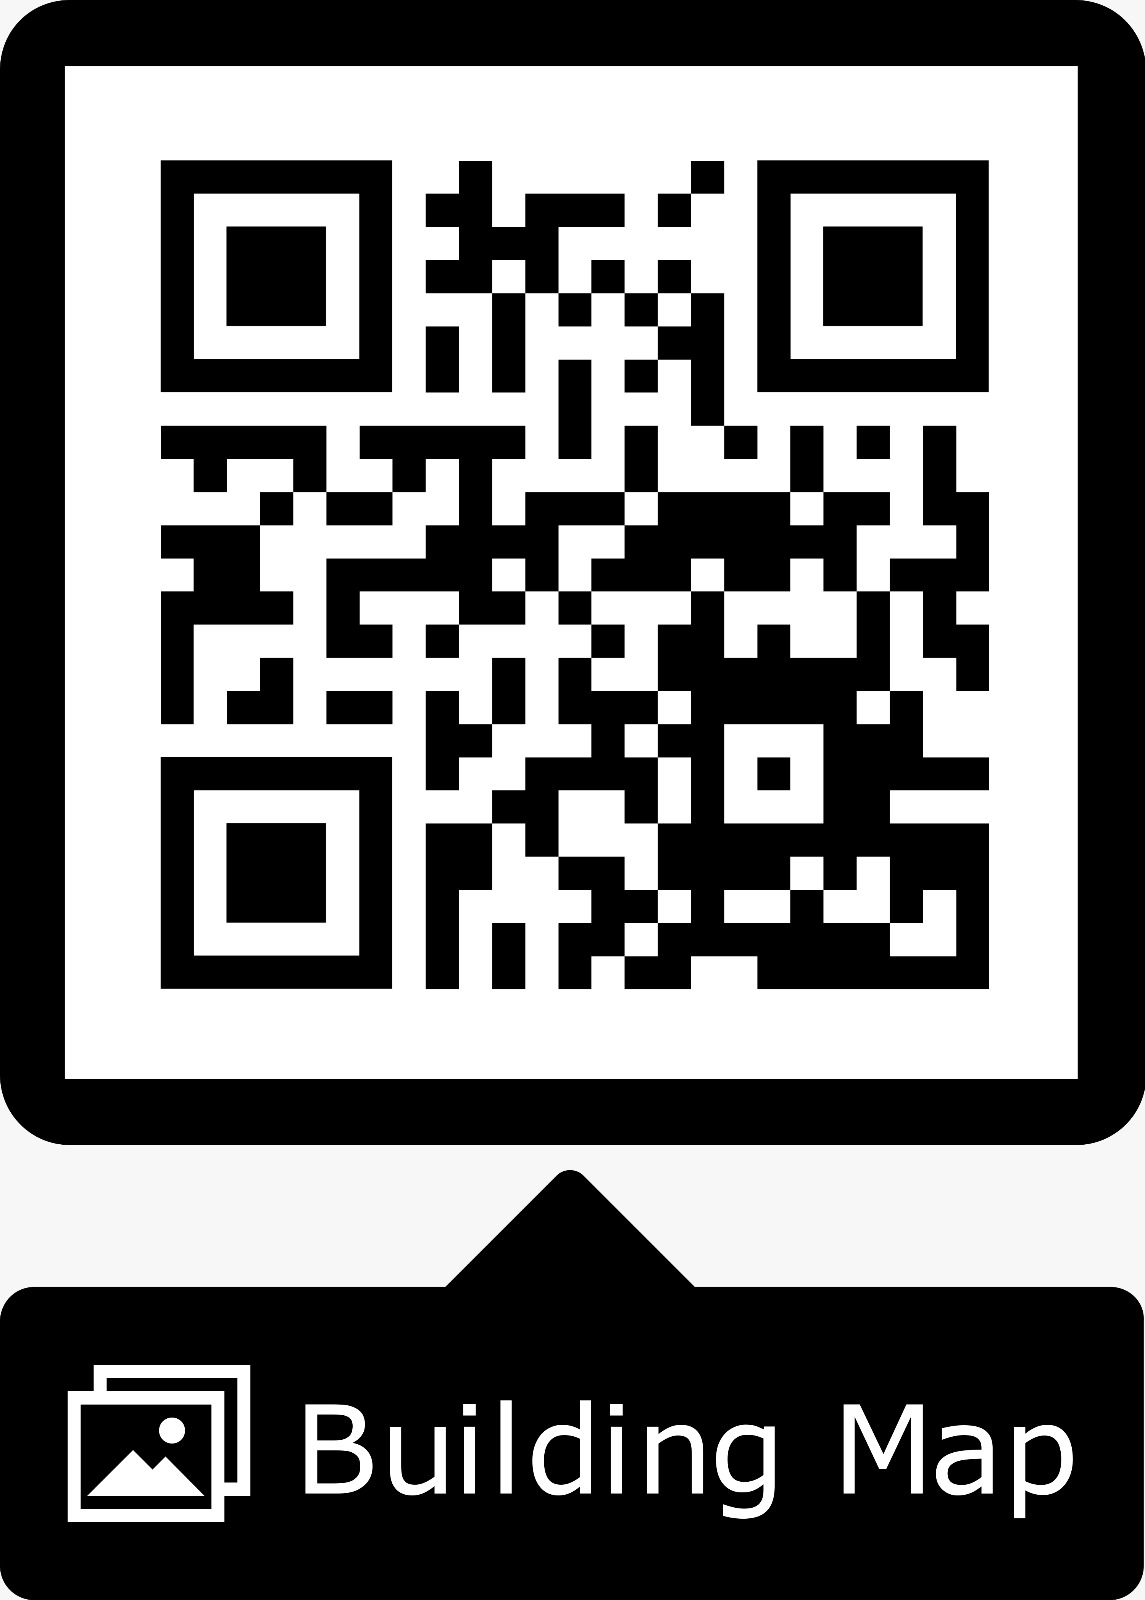
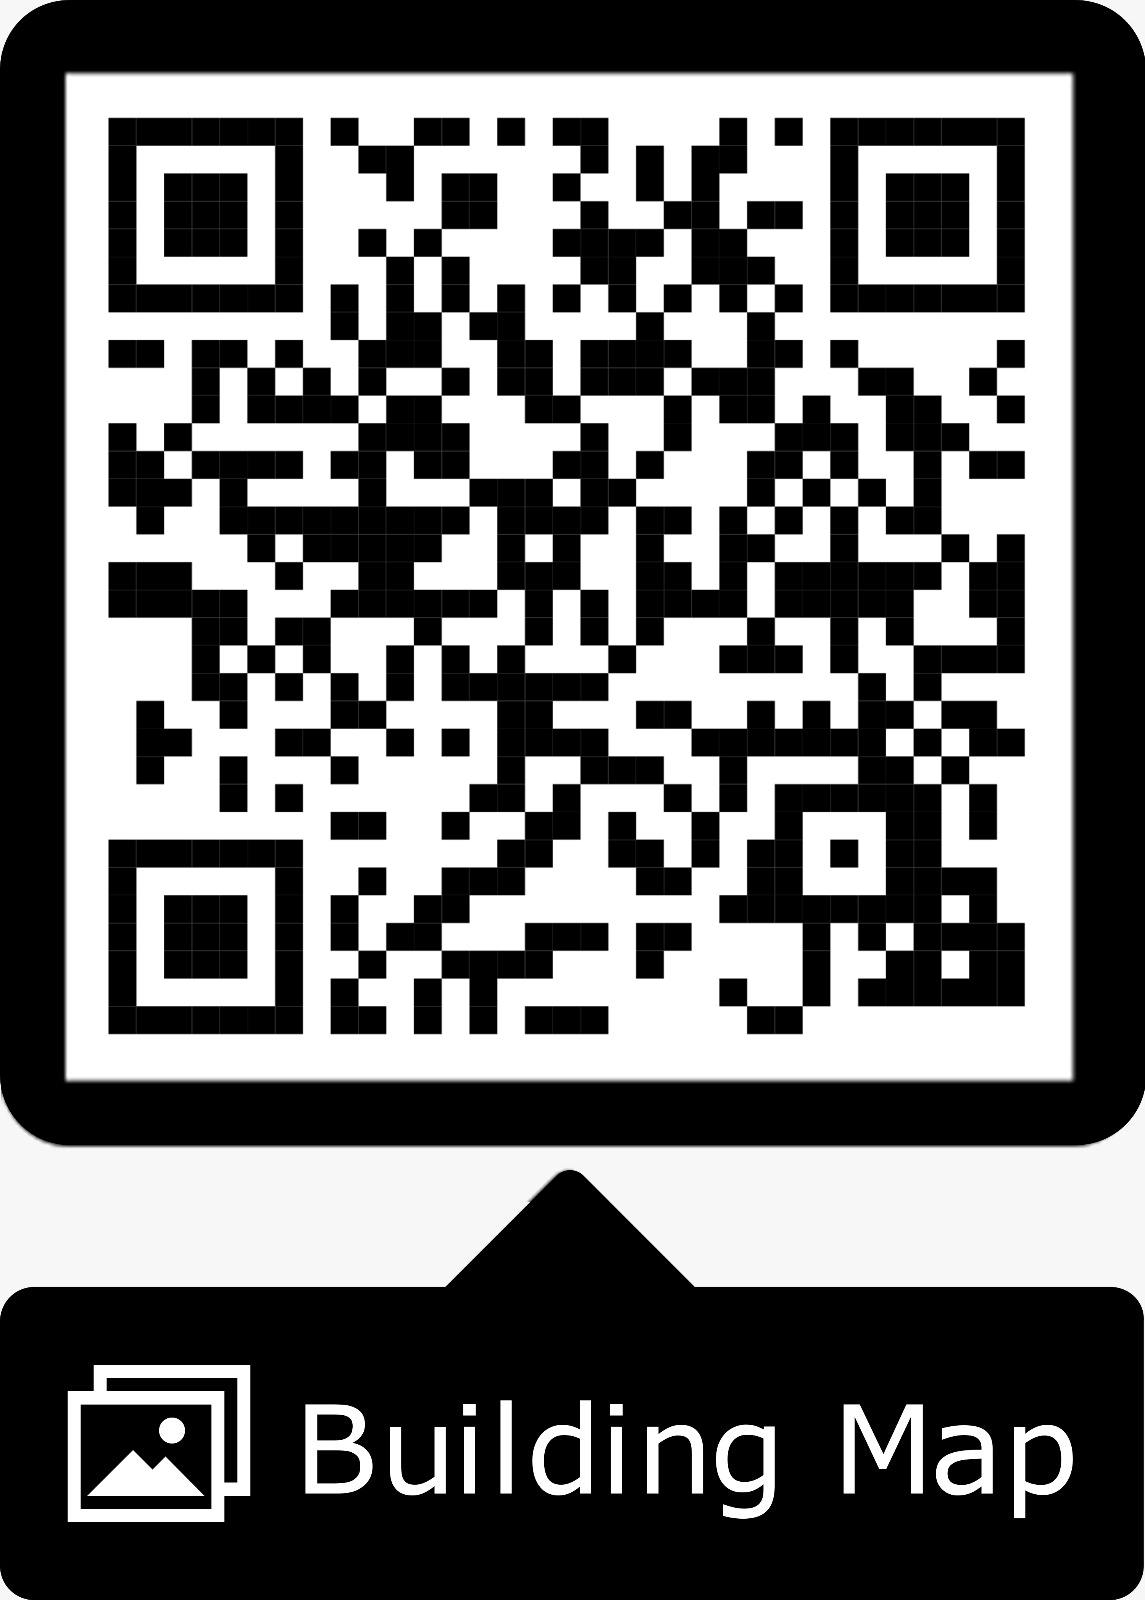
Maps, time/weather on maps page
Maps, time/weather on maps page, qr code

Changed region(s): [[0.0611, 0.0312, 0.9476, 0.6875]]

diff --git a/Contents/Maps/index.html b/Contents/Maps/index.html
@@ -59,6 +59,11 @@
   </header>
 
   <nav>
+    <div class="dateTime">
+      <span id="content_date"></span>
+      <span id="content_air"></span> | <span id="temp"></span>
+      <img src="" id="image-zoom">
+    </div>
     <div class="home-text" onclick="FC_ContentsCall('Home')"><img class="home" src="../../assets/icons/home.png" alt="home" >Home</div>
     <!--<h2 class="lang-text">Choose a Language</h2>
     <div class="nav-language">
@@ -78,11 +83,11 @@
           </li>    
         </ul>
         <div class="tab-content">
-          <div class="qr-code"><img src="images/qr-code.png" width="100"><span>Use your cell phone camera to scan the QR code to receive the map on your phone.</span></div>
+          <div class="qr-code"><img src="images/qr-code.png" width="100"><span>Use your Smart Phones camera to scan the QR code to receive the map on your phone.</span></div>
           <div class="tab-pane active" style="text-align: center" id="i01">
             <!--<img id="img" src="images/upper-level-map.png" onmousedown ="return false" width="1015">-->
             <!-- Image Map Generated by http://www.image-map.net/ -->
-            <img src="images/O-Upper Floor.png" width="1015" usemap="#image-map2">
+            <img src="images/O-Upper-new.png" width="1015" usemap="#image-map2">
             <map name="image-map2">
               <area id="1" src="images/O-Sheriff.png" alt="sherif" title="sherif" href="#" coords="239,964,274,965,275,971,288,963,298,975,277,996,278,1042,264,1041,263,1033,254,1027,240,1025" shape="poly">
               <area src="images/O-Board-Room.png" target="" alt="Board Room" title="Board Room" href="#" coords="192,894,204,893,210,888,295,887,306,899,306,910,299,908,298,927,300,933,306,936,304,945,290,960,278,964,228,964,228,957,192,957" shape="poly">
@@ -108,10 +113,72 @@
               <area src="images/O-First-Map-Seven-through-Eleven.png" alt="Elevator to Lower Level" title="Elevator to Lower Level" href="#" coords="307,968,320,967,322,979,307,980" shape="poly">
               <area src="images/O-First-Map-One-through-Six.png" alt="Elevator to Lower Level" title="Elevator to Lower Level" href="#" coords="414,543,429,541,429,560,414,560" shape="poly">
             </map>
+            <div style="position: absolute;top: 569px;left: 722px;font-size: 22px;">
+              <div class="menu-item-2" style="" >
+                <img src="images/star.png" width="30"> Upper Level Main Entrance
+              </div>
+              <div class="menu-item" style="" src="images/O-First-Map-Seven-through-Eleven.png" title="Elevator to Lower Level">
+                <img src="images/blue-circle.png" width="30"> Elevator
+              </div>
+              <div class="menu-item" src="images/O-Sheriff.png" title="sherif">
+                1 Sheriff
+              </div>
+              <div class="menu-item" src="images/O-Board-Room.png" title="Board Room">
+                2 Board Room
+              </div>
+              <div class="menu-item" src="images/County-Administrator.png" title="County Administrator">
+                3 County Administrator
+              </div>
+              <div class="menu-item" src="images/O-Conference-Room-A.png" title="Conference Room A">
+                4 Conference Room A
+              </div>
+              <div class="menu-item" src="images/O-Conference-Room-B.png" title="Conference Room B">
+                5 Conference Room B
+              </div>
+              <div class="menu-item" src="images/O-Conference-Room-C.png" title="Conference Room C">
+                6 Conference Room C
+              </div>
+              <div class="menu-item" src="images/O-Human-Resources.png" title="Human Resources">
+                7 Human Resources
+              </div>
+              <div class="menu-item" src="images/O-GIS.png" title="GIS">
+                8 GIS
+              </div>
+              <div class="menu-item" src="images/O-IT.png" title="IT">
+                9 IT
+              </div>
+              <div class="menu-item" src="images/O-Conference-Room-D.png" title="Conference Room D">
+                10 Conference Room D
+              </div>
+              <div class="menu-item" src="images/O-Fiscal-Services-Updated.png" title="Fiscal Services">
+                11 Fiscal Services
+              </div>
+              <div class="menu-item" src="images/O-Corporate-Counsel.png" title="Corporate Counsel">
+                12 Corporate Counsel
+              </div>
+              <div class="menu-item" src="images/O-Conference-Room-F.png" title="Conference Room F" >
+                13 Conference Room F 
+              </div>
+              <div class="menu-item" src="images/O-Main-Conference-Room.png" title="Main Conference Room">
+                14 Main Conference Room
+              </div>
+              <div class="menu-item" src="images/O-Innovation-Room.png" title="Innovation Room">
+                15 Innovation Room
+              </div>
+              <div class="menu-item" src="images/O-Planning-&-Performance-Improvement.png" a title="Planning and Performance improvement">
+                16 Planning & Performance <br> Improvement
+              </div>
+              <div class="menu-item" src="images/O-Parks-&-Recreation.png" title="Parks &amp; Recreation">
+                17 Parks & Recreation
+              </div>
+              
+
+
+            </div>
           </div>
           <div class="tab-pane" style="text-align: center" id="i02">
             <!--<img id="img" src="images/lower-level-map.png" onmousedown ="return false" width="1015">-->
-            <img src="images/O-Lower Level.png" onmousedown ="return false" width="1015" usemap="#image-map">
+            <img src="images/O-Lower Level-new.png" onmousedown ="return false" width="1015" usemap="#image-map">
           <map name="image-map">
               <area src="images/lower-level/O-Water-Resources-Commissioner.png" alt="Water Resources Comissioner" title="Water Resources Comissioner" coords="457,350,511,349,514,311,570,312,570,431,457,431,457,410,466,399,464,392,457,392" shape="poly">
               <area src="images/lower-level/O-County-Treasurer.png" target="" alt="County Treasure" title="County Treasure"  coords="457,433,571,433,570,549,493,549,491,557,474,556,468,547,457,546" shape="poly">
@@ -127,6 +194,50 @@
               <!--<area src="images/" target="" alt="Elevator to upper level" title="Elevator to upper level" coords="324,932,338,931,337,941,324,941" shape="poly">
               <area src="images/" target="" alt="Elevator to upper level" title="Elevator to upper level"  coords="424,538,437,539,437,550,424,550" shape="poly">-->
           </map>
+
+
+          <div style="position: absolute;top: 569px;left: 650px;font-size: 22px;">
+              <div class="menu-item-2" style="" src="" title="">
+                <img src="images/star.png" width="30"> Lower Level Main Entrance
+              </div>
+              <div class="menu-item" style="" src="images/O-First-Map-Seven-through-Eleven.png" title="Elevator to Lower Level">
+                <img src="images/blue-circle.png" width="30"> Elevator
+              </div>
+              <div class="menu-item" src="images/lower-level/O-Water-Resources-Commissioner.png" title="Water Resources Comissioner">
+                1 Water Resources Commissioner
+              </div>
+              <div class="menu-item" src="images/lower-level/O-County-Treasurer.png" title="County Treasure" >
+                2  County Treasurer
+              </div>
+              <div class="menu-item" src="images/lower-level/o-Register-of-Deeds.png" title="Clerk/Register of Deeds">
+                3 Clerk/Register of Deeds
+              </div>
+              <div class="menu-item" src="images/lower-level/O-Equalization.png" title="Equalization/Property">
+                4 Equalization / Property...
+              </div>
+              <div class="menu-item" src="images/lower-level/O-MSU-Extension.png" title="MSU Extension">
+                5 MSU Extension
+              </div>
+              <div class="menu-item" src="images/lower-level/O-Break-Room.png" title="Break Room">
+                6 Break Room
+              </div>
+              <div class="menu-item" src="images/lower-level/O-IT-Service-Desk.png" title="IT Service Desk">
+                7 IT Service Desk
+              </div>
+              <div class="menu-item" src="images/lower-level/O-Facilities-Maintenance.png" title="Facilities Maintenance">
+                8 Facilities Maintenance
+              </div>
+              <div class="menu-item" src="images/lower-level/O-Emergency-Management.png" title="Emergency Management">
+                9 Emergency Management
+              </div>
+              <div class="menu-item" src="images/lower-level/O-IT-Computer-Training.png" title="IT Computer Training">
+                10 IT Computer Training
+              </div>
+              <div class="menu-item" src="images/lower-level/O-Conference-Room-E.png" title="Conference Room E">
+                11 Conference Room E
+              </div>
+
+            </div>
 
             
         </div>              
@@ -206,8 +317,18 @@
       <div id="dialog-box">
 
       </div>
-
+<style type="text/css">
+  .menu-item, .menu-item-2{
+    border: 1px solid;
+    border-radius: 15px;
+    padding: 10px;background-color: #bee6f0;
+    /*height: 50px;*/
+    margin-bottom: 10px; 
+    text-align: left;
+  }
+</style>
 </body>
+
 <script type="application/javascript">
 
 </script>

diff --git a/maincontents.js b/maincontents.js
@@ -236,8 +236,9 @@ setTimeout(function () {
 
     $.getJSON(queryURL, function (data) {
 
-        var temp = data.main.temp-273;
-        var temp=Math.round((temp * (9/5)) + 32);
+        //var temp = data.main.temp;
+        var temp = Math.round(data.main.temp-273);
+        //var temp=Math.round((temp * (9/5)) + 32);
         
         var condition = data.weather[0].main;
         var loc = 'http://openweathermap.org/img/w/'+ data.weather[0].icon  + '.png' ;
@@ -245,7 +246,7 @@ setTimeout(function () {
         //$('#temp').append('The temperature is <strong>' + temp + '</strong><sup>°F</sup> Forecast calls for '+condition);
 
         $('#condition').text(condition);
-        $('#temp').append(temp + '</strong><sup>°f</sup>');
+        $('#temp').append(temp + '</strong><sup>°</sup>');
 
         $('#image-zoom').attr("src",loc);
 
@@ -261,9 +262,9 @@ setTimeout(function () {
 function ShowTime()
 {
     var dt = new Date();
-    // formatAMPM(dt);
-    //document.getElementById("content_air") .innerHTML = formatAMPM(dt) ;
-    //document.getElementById("content_date") .innerHTML = formatDate(dt);
+    formatAMPM(dt);
+    document.getElementById("content_air") .innerHTML = formatAMPM(dt) ;
+    document.getElementById("content_date") .innerHTML = formatDate(dt);
 
 }
 function formatAMPM(date) {
@@ -291,11 +292,12 @@ function formatDate(date){
 
     var m_names = ["Jan", "Feb", "Mar", "Apr", "May", "Jun",
         "Jul", "Aug", "Sep", "Oct", "Nov", "Dec"];
-    var month = m_names[date.getMonth()];
+    //var month = m_names[date.getMonth()];
+    var month = date.getMonth()+1;
     var day = date.getDate();
-    day = getGetOrdinal(day);
+    //day = getGetOrdinal(day);
 
-    var output = (month<10 ? '0' : '') + month + ' ' +(day<10 ? '0' : '') + day+', '+ date.getFullYear() ;
+    var output = (month<10 ? '0' : '') + month + '/' +(day<10 ? '0' : '') + day+'/'+ date.getFullYear() ;
     return output;
 }
 

diff --git a/Contents/Info/index.html b/Contents/Info/index.html
@@ -126,7 +126,7 @@
                         </div>
                         <div id="collapseOne" class="panel-collapse collapse in" role="tabpanel" aria-labelledby="headingOne">
                             <div class="panel-body">
-                                <span id="map" src="images/maps-new/O-Sheriff.png"><img src="images/map.png" width="60"> </span>
+                                <span id="map" src="images/maps-new/O-Sheriff.png"><img src="images/map.png" width="60">Click here for maps</span>
                                 <p>Sherrif's Office</p>
                             </div>
                         </div>
@@ -1192,8 +1192,9 @@ $(function(){
     #map{
             /* position: absolute; */
     /* right: 30px; */
-    float: left;
-    margin: -5px 15px 0 0;
+    float: right;
+    color: #000;
+    /*margin: -5px 15px 0 0;*/
     }
     .panel-default>.panel-heading+.panel-collapse>.panel-body p{
         color: black;

diff --git a/Contents/Maps/css/map.css b/Contents/Maps/css/map.css
@@ -79,7 +79,8 @@
 a.button {
   /* styles for button */
   position: absolute !important;
-  right: 15px;
+  right: 5px;
+  top: 0;
   margin:10px auto 0 auto;
   text-align:center;
   display: block;
@@ -123,7 +124,7 @@ a.button:hover {
 #dialog-box .dialog-content p {
   text-align: center;
   font-weight:700; margin:0;
-  font-size: 40px;
+  font-size: 39px;
 }
 
 #dialog-box .dialog-content ul {

diff --git a/Contents/Info/js/info.js b/Contents/Info/js/info.js
@@ -5,11 +5,11 @@
 function redirect(){
   window.location.href = "../../maincontents.htm";
 }
-var initial=setTimeout(redirect,60000);
+var initial=setTimeout(redirect,75000);
 
 $(document).click(function(event) {
     clearTimeout( initial );
-    initial=setTimeout(redirect,60000);
+    initial=setTimeout(redirect,75000);
 });
 //-----------------------------------------------------
 

diff --git a/Contents/Maps/js/map.js b/Contents/Maps/js/map.js
@@ -49,7 +49,7 @@ $(document).ready(function(){
       return false;
     });
 
-  $("area").click(function () {
+  $("area, .menu-item").click(function () {
     PlaySpeech("With your phone, take a picture of the map, this way you’ll have the directions on your phone and you can take the map with you.");
     ShowMapDetails($(this).attr('title'), $(this).attr('src'));
 

diff --git a/css/Main.css b/css/Main.css
@@ -287,11 +287,18 @@ a.search{
 	font-weight: bold;
 	 font-size: 25px;
 }
+.dateTime{
+	float: right;
+    margin-top: 5px;
+    font-size: 35px;
+    color: #fff
+}
 #content_air,#content_date,#condition{
-	font-size: 20px;
+	
+	
 }
 #temp{
-	font-size: 55px;
+	font-size: 35px;
 	 font-weight: bold;
 }
 
